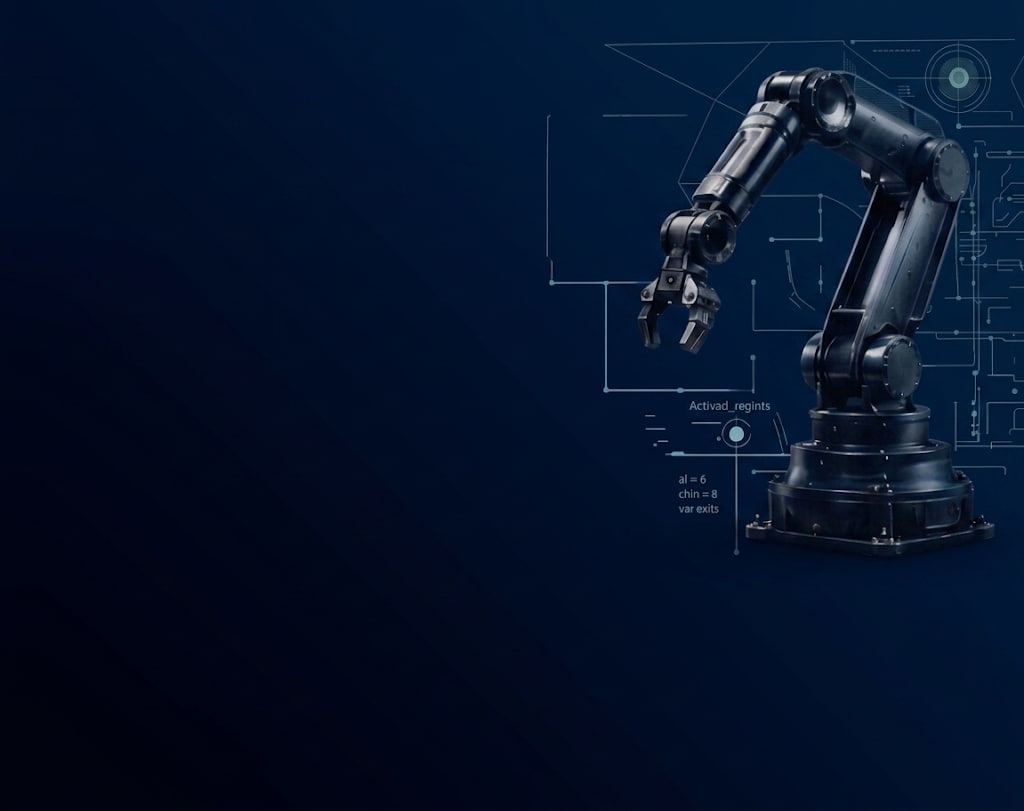
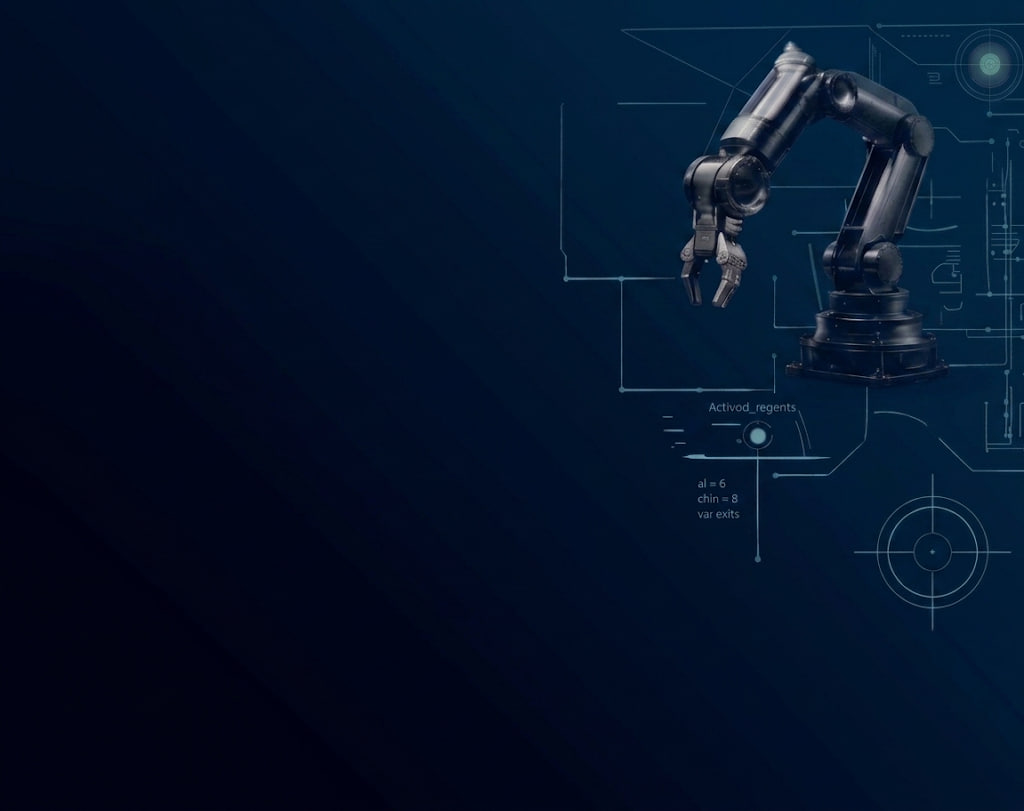
Update website bg

diff --git a/style.css b/style.css
@@ -1,13 +1,18 @@
+html,
+body {
+    margin: 0;
+    min-height: 100%;
+}
+
 body {
     font-family: Arial, sans-serif;
-    margin: 0;
+    min-height: 100vh;
+
     background-image: url("images/claw.jpg");
     background-size: cover;
     background-position: center;
     background-repeat: no-repeat;
-    min-height: 100%;
     background-attachment: fixed;
-
 }
 
 nav {
